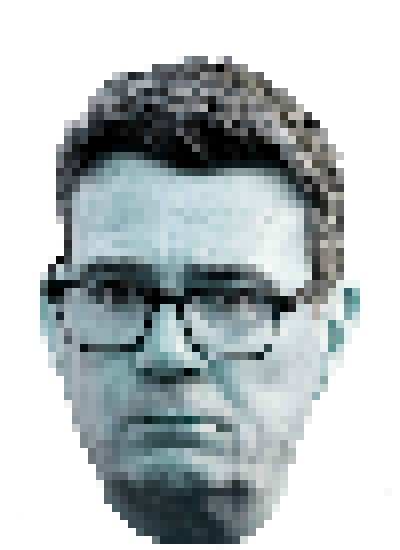
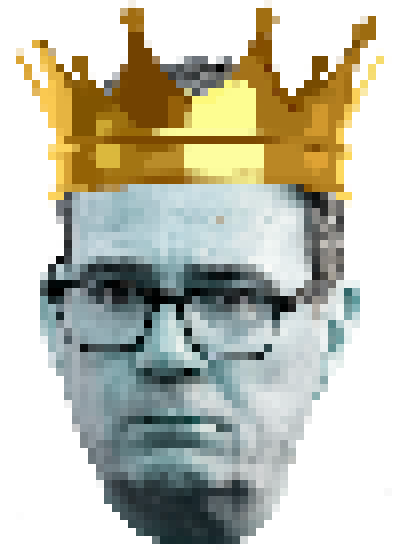
Update Londoncentric enemies, red wine sizes, projectile explosion sound, and Wave 18 Andy boss tweaks

Changed region(s): [[0.03, 0.0, 0.96, 0.3709], [0.54, 0.3709, 0.57, 0.4327]]

diff --git a/game.js b/game.js
@@ -850,7 +850,7 @@ class Bullet {
         this.y = y;
         this.vx = vx;
         this.vy = vy;
-        this.radius = type === 'dropping' ? 6 : (type === 'brown_lump' ? 9 : (type === 'brown_peanut' ? 15 : (type === 'diesel_smoke' ? 14 : (['gravy', 'lager', 'chips'].includes(type) ? 14 : 4))));
+        this.radius = type === 'dropping' ? 6 : (type === 'brown_lump' ? 9 : (type === 'brown_peanut' ? 15 : (type === 'diesel_smoke' ? 14 : (['gravy', 'lager', 'chips'].includes(type) ? 21 : 4))));
         this.origin = origin;
         this.type = type; // 'laser' or 'dropping' or 'brown_lump' or 'brown_peanut' or 'silver_coin' or 'diesel_smoke' or 'gravy' or 'lager' or 'chips'
         this.bounceCount = 0;
@@ -900,6 +900,39 @@ class Bullet {
             }
 
             if (this.bounceCount > 4) {
+                this.x = -100; // Force cleanup out of bounds
+            }
+        }
+
+        // Bouncy check for boss projectiles ('gravy', 'lager', 'chips')
+        if (['gravy', 'lager', 'chips'].includes(this.type)) {
+            // Left boundary
+            if (this.x - this.radius <= 15) {
+                this.x = 15 + this.radius + 1;
+                this.vx = Math.abs(this.vx);
+                this.bounceCount = (this.bounceCount || 0) + 1;
+            }
+            // Right boundary
+            else if (this.x + this.radius >= ARENA_WIDTH - 15) {
+                this.x = ARENA_WIDTH - 15 - this.radius - 1;
+                this.vx = -Math.abs(this.vx);
+                this.bounceCount = (this.bounceCount || 0) + 1;
+            }
+
+            // Top boundary
+            if (this.y - this.radius <= ARENA_CEILING + 5) {
+                this.y = ARENA_CEILING + 5 + this.radius + 1;
+                this.vy = Math.abs(this.vy);
+                this.bounceCount = (this.bounceCount || 0) + 1;
+            }
+            // Bottom boundary
+            else if (this.y + this.radius >= ARENA_HEIGHT - 15) {
+                this.y = ARENA_HEIGHT - 15 - this.radius - 1;
+                this.vy = -Math.abs(this.vy);
+                this.bounceCount = (this.bounceCount || 0) + 1;
+            }
+
+            if (this.bounceCount > 3) {
                 this.x = -100; // Force cleanup out of bounds
             }
         }
@@ -1719,7 +1752,7 @@ class Enemy {
                 this.vy = Math.sin(sadiqAngle) * this.speed;
                 break;
             case 'lime_bike':
-                this.radius = 30;
+                this.radius = 45;
                 this.hp = 1;
                 this.color = '#00ff00';
                 this.scoreValue = 150;
@@ -1729,7 +1762,7 @@ class Enemy {
                 this.vy = Math.sin(limeBikeAngle) * this.speed;
                 break;
             case 'police_helmet':
-                this.radius = 27.5;
+                this.radius = 41.25;
                 this.hp = 2;
                 this.color = '#0d47a1';
                 this.scoreValue = 200;
@@ -1739,7 +1772,7 @@ class Enemy {
                 this.vy = Math.sin(policeHelmetAngle) * this.speed;
                 break;
             case 'punk':
-                this.radius = 27.5;
+                this.radius = 41.25;
                 this.hp = 1;
                 this.color = '#e91e63';
                 this.scoreValue = 150;
@@ -1749,7 +1782,7 @@ class Enemy {
                 this.vy = Math.sin(punkAngle) * this.speed;
                 break;
             case 'speed_camera':
-                this.radius = 25;
+                this.radius = 37.5;
                 this.hp = 2;
                 this.color = '#ffd54f';
                 this.scoreValue = 250;
@@ -1759,7 +1792,7 @@ class Enemy {
                 this.vy = Math.sin(speedCameraAngle) * this.speed;
                 break;
             case 'phonebox':
-                this.radius = 27.5;
+                this.radius = 41.25;
                 this.hp = 2;
                 this.color = '#d32f2f';
                 this.scoreValue = 200;
@@ -1769,7 +1802,7 @@ class Enemy {
                 this.vy = Math.sin(phoneboxAngle) * this.speed;
                 break;
             case 'blackcab':
-                this.radius = 32.5;
+                this.radius = 48.75;
                 this.hp = 3;
                 this.color = '#212121';
                 this.scoreValue = 250;
@@ -1820,7 +1853,7 @@ class Enemy {
                 this.vy = Math.sin(tapeAngle) * this.speed;
                 break;
             case 'red_wine':
-                this.radius = 27.5;
+                this.radius = 41.25;
                 this.hp = 1;
                 this.color = '#7c0a02';
                 this.scoreValue = 200;
@@ -1847,33 +1880,33 @@ class Enemy {
                 this.angleOffset = 0;
                 break;
             case 'crowned_andy':
-                this.radius = 50;
+                this.radius = 75;
                 this.hp = 30;
                 this.color = '#e53935';
                 this.scoreValue = 1500;
-                this.speed = 0.5;
+                this.speed = 1.5;
                 this.fireTimer = 0;
                 const caAngle = Math.random() * Math.PI * 2;
                 this.vx = Math.cos(caAngle) * this.speed;
                 this.vy = Math.sin(caAngle) * this.speed;
                 break;
             case 'andy_no_crown':
-                this.radius = 40;
+                this.radius = 90;
                 this.hp = 10;
                 this.color = '#e53935';
                 this.scoreValue = 500;
-                this.speed = 0.7;
+                this.speed = 2.2;
                 this.fireTimer = 0;
                 const ancAngle = Math.random() * Math.PI * 2;
                 this.vx = Math.cos(ancAngle) * this.speed;
                 this.vy = Math.sin(ancAngle) * this.speed;
                 break;
             case 'crown':
-                this.radius = 35;
+                this.radius = 53;
                 this.hp = 10;
                 this.color = '#ffd700';
                 this.scoreValue = 500;
-                this.speed = 0.9;
+                this.speed = 2.8;
                 this.fireTimer = 0;
                 const crAngle = Math.random() * Math.PI * 2;
                 this.vx = Math.cos(crAngle) * this.speed;
@@ -1890,7 +1923,7 @@ class Enemy {
     update(deltaTime) {
         this.angle += 0.03;
 
-        const layoutWave = 1 + ((currentWave - 1) % 15);
+        const layoutWave = 1 + ((currentWave - 1) % 18);
 
         // Wave 10 Commons Debate: only Labour and Tory logo enemies are stationary
         if (layoutWave === 10) {
@@ -2291,17 +2324,21 @@ class Enemy {
             this.fireTimer += deltaTime;
             if (this.fireTimer > 2000) {
                 this.fireTimer = 0;
-                const types = ['gravy', 'lager', 'chips'];
-                const projType = types[Math.floor(Math.random() * types.length)];
                 if (player) {
                     const dx = player.x - this.x;
                     const dy = player.y - this.y;
                     const dist = Math.hypot(dx, dy);
                     if (dist > 5) {
                         const bulletSpeed = (2.4 + currentWave * 0.04) * 1.6;
-                        const vx = (dx / dist) * bulletSpeed;
-                        const vy = (dy / dist) * bulletSpeed;
-                        enemyBullets.push(new Bullet(this.x, this.y, vx, vy, 'enemy', projType));
+                        const baseAngle = Math.atan2(dy, dx);
+                        const types = ['gravy', 'lager', 'chips'];
+                        const angles = [baseAngle - 0.22, baseAngle, baseAngle + 0.22];
+                        for (let idx = 0; idx < 3; idx++) {
+                            const angle = angles[idx];
+                            const vx = Math.cos(angle) * bulletSpeed;
+                            const vy = Math.sin(angle) * bulletSpeed;
+                            enemyBullets.push(new Bullet(this.x, this.y, vx, vy, 'enemy', types[idx]));
+                        }
                     }
                 }
             }
@@ -4656,10 +4693,10 @@ function collectItem(cIndex) {
                     
                     const andyPart = new Enemy(enemy.x - 15, enemy.y, 'andy_no_crown');
                     const crownPart = new Enemy(enemy.x + 15, enemy.y, 'crown');
-                    andyPart.vx = -1.0;
-                    andyPart.vy = 0.5;
-                    crownPart.vx = 1.0;
-                    crownPart.vy = -0.5;
+                    andyPart.vx = -andyPart.speed;
+                    andyPart.vy = andyPart.speed * 0.5;
+                    crownPart.vx = crownPart.speed;
+                    crownPart.vy = -crownPart.speed * 0.5;
                     enemies.push(andyPart, crownPart);
                 } else {
                     enemies.splice(eIndex, 1);
@@ -4721,16 +4758,16 @@ function checkCollisions() {
         const pBullet = bullets[bIndex];
         for (let ebIndex = enemyBullets.length - 1; ebIndex >= 0; ebIndex--) {
             const eBullet = enemyBullets[ebIndex];
-            if (eBullet.type === 'brown_peanut' || eBullet.type === 'diesel_smoke') {
+            if (eBullet.type === 'brown_peanut' || eBullet.type === 'diesel_smoke' || eBullet.type === 'gravy' || eBullet.type === 'lager' || eBullet.type === 'chips') {
                 const dist = Math.hypot(pBullet.x - eBullet.x, pBullet.y - eBullet.y);
                 if (dist < pBullet.radius + eBullet.radius) {
                     bullets.splice(bIndex, 1);
                     enemyBullets.splice(ebIndex, 1);
-                    const pColor = eBullet.type === 'brown_peanut' ? '#8b5a2b' : '#505050';
+                    const pColor = eBullet.type === 'brown_peanut' ? '#8b5a2b' : eBullet.type === 'gravy' ? '#6b3a1f' : eBullet.type === 'lager' ? '#daa520' : eBullet.type === 'chips' ? '#f5d442' : '#505050';
                     for (let i = 0; i < 6; i++) {
                         particles.push(new Particle(eBullet.x, eBullet.y, pColor));
                     }
-                    window.audio.playProjectileDestroy();
+                    window.audio.playExplosion();
                     break;
                 }
             }
@@ -4809,10 +4846,10 @@ function checkCollisions() {
                         
                         const andyPart = new Enemy(enemy.x - 15, enemy.y, 'andy_no_crown');
                         const crownPart = new Enemy(enemy.x + 15, enemy.y, 'crown');
-                        andyPart.vx = -1.0;
-                        andyPart.vy = 0.5;
-                        crownPart.vx = 1.0;
-                        crownPart.vy = -0.5;
+                        andyPart.vx = -andyPart.speed;
+                        andyPart.vy = andyPart.speed * 0.5;
+                        crownPart.vx = crownPart.speed;
+                        crownPart.vy = -crownPart.speed * 0.5;
                         enemies.push(andyPart, crownPart);
                     } else {
                         enemies.splice(eIndex, 1);